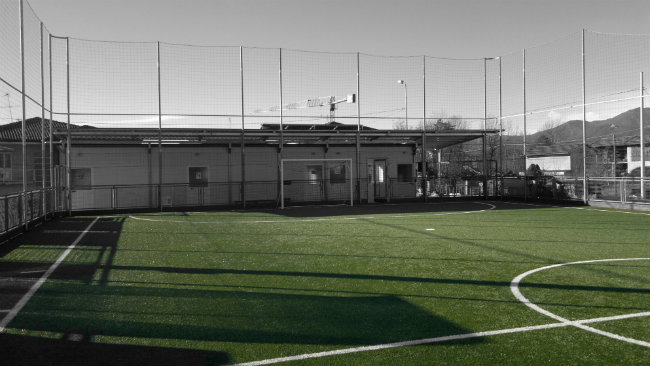
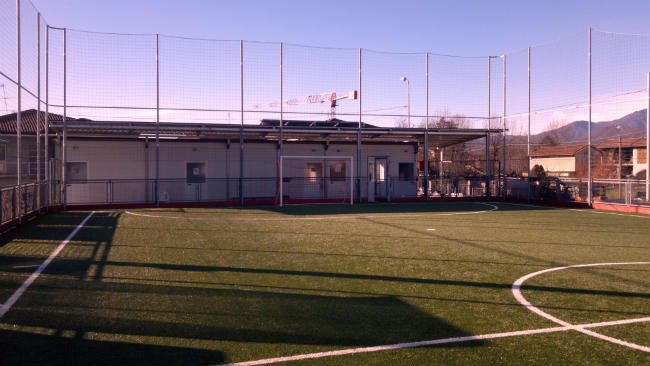
Graphical improvements
- table in index page.
- emphasized text.
- change the fourth pic.

diff --git a/index.html b/index.html
@@ -50,26 +50,43 @@
                 </header>
                 <p>Campo di calcio a cinque a Castellamonte, costruito con manto sintetico 
                 	ammortizzante di ultima generazione. </p>
-                <p> Il campo è realizzato, unico in Canavese, in erba sintetica ammortizzante top 
-                	di gamma, identica al manto (Italgreen) dello stadio di Serie A "Silvio Piola"
+                <p>Il campo è realizzato, unico in Canavese, in erba sintetica ammortizzante top 
+                	di gamma da <a class="link" href="http://www.italgreen.it/" target="_blank">Italgreen</a>,
+                	identico al manto dello stadio di Serie A "Silvio Piola"
                 	di Novara, con sottofondo curato da apposite colle 
                 	speciali per il massimo confort di gioco. </p>
-                <p> Spogliatoi, di rimpetto all'ingresso del campo, riscaldati e con moderni 
+                <p>Gli spogliatoi, di rimpetto all'ingresso del campo, sono riscaldati e con moderni 
                 	interni spaziosi, dotati di docce extra-large a flusso continuo con soffione 
                 	a led termoluminescente. </p>
-                <p> Fornitura di palloni regolamentari riconosciuti dalla FIGC. </p>
-                <p>Illuminazione notturna ad alta intensità, unica nel suo genere. Spogliatoi,
-                	di rimpetto all'ingresso del campo. </p>
+                <p>Garantiamo la fornitura di palloni regolamentari riconosciuti dalla FIGC. </p>
+                <p>L'illuminazione notturna è ad alta intensità, unica nel suo genere. </p>
                 <header class="icontext">
             		<img src="img/ball.png" alt="Icon" height="28" width="28">
                 	<h1>Tariffe</h1>
                 </header>
                 <p>Contattaci e prenota la tua partita. Disponibile 
-                	tutti i giorni tutto il giorno! Organizziamo anche tornei e campionati. </p>	
-                <p>Partita senza luci e senza spogliatoio: 30 Euro.</p>
-                <p>Partita con luci e senza spogliatoio: 35 Euro.</p>
-                <p>Partita senza luci e con spogliatoio: 35 Euro.</p>
-                <p>Partita con luci e con spogliatoio: 40 Euro.</p>
+                	tutti i giorni tutto il giorno! Organizziamo anche tornei e campionati. </p>              	
+                <table>
+                	<tr>
+        				<td>Partita di 1H senza luci e senza spogliatoio</td>
+       					<td>30 Euro</td>
+      				</tr>
+    
+    				<tr>
+     					<td>Partita di 1H con luci e senza spogliatoio</td>
+        				<td>35 Euro</td>
+      				</tr>
+    
+     				<tr>
+     					<td>Partita di 1H senza luci e con spogliatoio</td>
+        				<td>35 Euro</td>
+      				</tr>
+      				
+      				<tr>
+     					<td>Partita di 1H con luci e con spogliatoio</td>
+        				<td>40 Euro</td>
+      				</tr>
+    			</table>	
                 <p>L'ora successiva il prezzo è scontato!</p>
             </section>  
         </div>  

diff --git a/contatti.html b/contatti.html
@@ -70,8 +70,8 @@
             		<img src="img/ball.png" alt="Icon" height="28" width="28">
                 	<h1>Associazione C.C.C.</h1>
                 </header>
-                <p>Il campo è gestito dall'Associazione dilettantistica sportiva C.C.C. - 
-                Castellamonte Che Conta, costituita in un primo momento per partecipare a diversi 
+                <p>Il campo è gestito dall'Associazione dilettantistica sportiva <em> C.C.C. - 
+                Castellamonte Che Conta </em>, costituita in un primo momento per partecipare a diversi 
                 tornei di calcetto del Canavese. </p>
                 <p> Il tesseramento è sempre aperto e libero. 
 				Sono previsti sconti e abbonamenti cumulativi.</p>

diff --git a/css/style.css b/css/style.css
@@ -124,6 +124,23 @@ section#left h1 {
 	padding-left: 5px;
 }
 
+/* external link */
+a.link {
+    text-decoration: none;  
+    font-weight: bold;
+    color: #FFBD32;
+}  
+.link:hover { 
+    text-decoration: underline;
+    color: #FFBD32;
+} 
+
+/* emphasized text */
+em {
+	font-weight: bold;
+    color: #FFBD32;
+}
+
 /* phone number with icon */
 .phone {
 	padding-top: 2px;
@@ -135,6 +152,18 @@ section#left h1 {
 .phone p {
 	padding-left: 5px;
 	display: inline;
+}
+
+/* table */
+table {
+	width: 100%;
+	border-collapse: collapse;
+}
+table, td {
+	border: 1px dotted #FFBD32;
+}
+td {
+	padding: 4px 8px 4px 8px;
 }
 
 /* footer */
